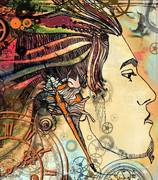
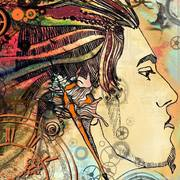
croping images

diff --git a/app/models/resume.rb b/app/models/resume.rb
@@ -1,7 +1,7 @@
 class Resume < ActiveRecord::Base
   has_attached_file :avatar,
                     :styles => {
-                        :small => "180x180>"
+                        :small => "180x180#"
                     }
   validates :name, presence: true,
             length: {minimum: 5}
